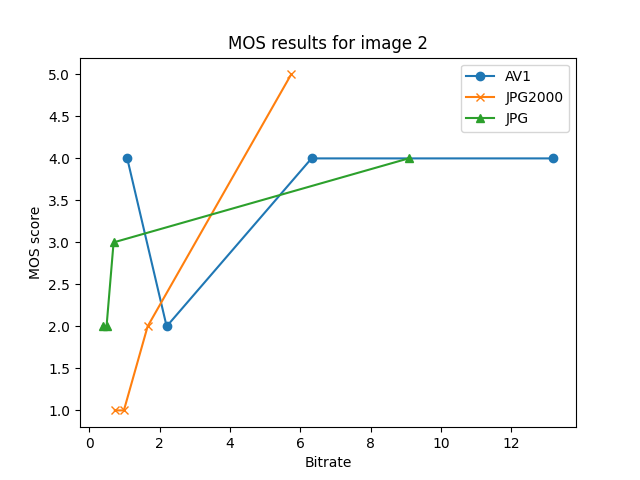
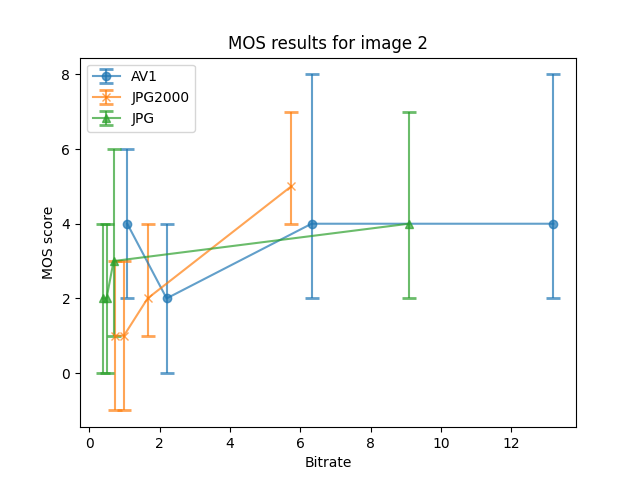
Updated the MOS results graphs to show the confidence interval

diff --git a/generateGraphs.py b/generateGraphs.py
@@ -54,41 +54,13 @@ def create_graph(file_path, results_list, codecs):
     plt.legend()
     plt.savefig(file_path)
     
-def create_graph_mos(file_path, results_list, codecs):
-    # Reset plot
-    plt.clf()
-    mos_c = MOS()
-    ci = mos_c.getConfidenceIntervals()
-    ci = ci[::-1]
-
-    X = get_bitrate_values(file_path.split('/')[-1].split('.')[0])
-    marker_list = ['o', 'x', '^']
-    for i,codec_results in enumerate(results_list):
-        codec_results = codec_results[:-1]
-        plt.plot(X[i], codec_results, label=codecs[i], marker=marker_list[i])
-    
-    plt.xlabel("Bitrate")
-    plt.ylabel(f"{file_path.split('/')[1]} score")
-    plt.title(f"{file_path.split('/')[1]} results for image {file_path.split('/')[2].split('.')[0][-1]}")
-
-    plt.legend()
-    plt.savefig(file_path)
-
-# def create_graph_mos(file_path, results_list, codecs):
+# def create_graph_mos(file_path, results_list, confidence_intervals, codecs):
 #     # Reset plot
 #     plt.clf()
-#     mos_c = MOS()
-#     ci = mos_c.getConfidenceIntervals()
-#     ci = ci[::-1]
-    
 #     X = get_bitrate_values(file_path.split('/')[-1].split('.')[0])
 #     marker_list = ['o', 'x', '^']
-#     for i, codec_results in enumerate(results_list):
-#         codec_results = codec_results[:-1]
-#         yerr_lower = [codec_results[j] - ci[j][0] for j in range(len(codec_results))]
-#         yerr_upper = [ci[j][1] - codec_results[j] for j in range(len(codec_results))]
-#         plt.errorbar(X[i], codec_results, yerr=[yerr_lower, yerr_upper], 
-#                      label=codecs[i], marker=marker_list[i])
+#     for i,codec_results in enumerate(results_list):
+#         plt.plot(X[i], codec_results, label=codecs[i], marker=marker_list[i])
     
 #     plt.xlabel("Bitrate")
 #     plt.ylabel(f"{file_path.split('/')[1]} score")
@@ -97,6 +69,23 @@ def create_graph_mos(file_path, results_list, codecs):
 #     plt.legend()
 #     plt.savefig(file_path)
 
+def create_graph_mos(file_path, results_list, confidence_intervals, codecs):
+    # Reset plot
+    plt.clf()
+    X = get_bitrate_values(file_path.split('/')[-1].split('.')[0])
+    marker_list = ['o', 'x', '^']
+    for i,codec_results in enumerate(results_list):
+        # Plot the results with error bars for the confidence intervals
+        yerr = np.array(confidence_intervals[i]).reshape(2, -1)
+        plt.errorbar(X[i], codec_results, yerr=yerr, label=codecs[i], 
+                     marker=marker_list[i], capsize=5, capthick=2, alpha=0.7)
+
+    plt.xlabel("Bitrate")
+    plt.ylabel(f"{file_path.split('/')[1]} score")
+    plt.title(f"{file_path.split('/')[1]} results for image {file_path.split('/')[2].split('.')[0][-1]}")
+
+    plt.legend()
+    plt.savefig(file_path)
 
 def create_objective_graphs():
     # Get the objective evaluation metrics results
@@ -121,22 +110,30 @@ def create_objective_graphs():
 def create_mos_graphs():
     # Get the mos evaluation metrics results
     codec_dir = os.listdir('mos_results')
-    df_list = [pd.read_csv(f'mos_results/{codec}', index_col=0) for codec in codec_dir]
+    df_list = [pd.read_csv(f'mos_results/{codec}', index_col=0)[:-1] for codec in codec_dir]
+    mos_c = MOS()
+    ci = mos_c.getConfidenceIntervals_dataframe()[::-1]
     codecs = [codec.split('Results')[0].upper() for codec in codec_dir]
+    
+    # print(df_list[0].values.shape)
+    # print(ci[0].values.shape)
+    # quit()
     
     # For each image
     for i in tqdm(range(len(df_list[0].columns)), desc='Images', leave=False):
         image_results = []
+        confidence_intervals = []
         '''
         Each image_results is an image;
         Each list inside image_result is a codec
         Each value inside the list that is inside the list is a bitrate value, in ascending order, the last being the reference value
         '''
-        # TODO: There's a problem here! Since the reference is in the list it counts as the fifth element (find a way to deal with this situation)
-        for codec_df in df_list:
-            image_results.append(list(codec_df[f'Image {i+1}'])) # This list contains the bitrates values for each codec
+        for j in range(len(df_list)):
+            image_results.append(list(df_list[j][f'Image {i+1}'])) # This list contains the bitrates values for each codec
+            confidence_intervals.append(list(ci[j][f'Image {i+1}'])) # This list contains the bitrates values for each codec
+            
         
-        create_graph_mos(f'graphs/MOS/Image{i + 1}.png', image_results, codecs)
+        create_graph_mos(f'graphs/MOS/Image{i + 1}.png', image_results, confidence_intervals, codecs)
     
 
 if __name__ == '__main__':    

diff --git a/mos.py b/mos.py
@@ -68,6 +68,19 @@ class MOS:
         jpg2000CI[i][j] = (means[1][i][j] - stddevs[1][i][j],means[1][i][j] + stddevs[1][i][j])
         av1CI[i][j]     = (means[2][i][j] - stddevs[2][i][j],means[2][i][j] + stddevs[2][i][j])
     return (jpgCI,jpg2000CI,av1CI)
+  
+  def getConfidenceIntervals_dataframe(self):
+    jpgCI     = pd.DataFrame(index = ["bitrate-1", "bitrate-2", "bitrate-3", "bitrate-4"],columns = ["Image 1","Image 2","Image 3","Image 4","Image 5"])
+    jpg2000CI = pd.DataFrame(index = ["bitrate-1", "bitrate-2", "bitrate-3", "bitrate-4"],columns = ["Image 1","Image 2","Image 3","Image 4","Image 5"])
+    av1CI     = pd.DataFrame(index = ["bitrate-1", "bitrate-2", "bitrate-3", "bitrate-4"],columns = ["Image 1","Image 2","Image 3","Image 4","Image 5"])
+    means   = self.getMeans()
+    stddevs = self.getStddevs()
+    for i in range(5): # Images
+      for j in range(4): # Bitrates
+        jpgCI.values.T[i][j]     = (means[0][i][j] - stddevs[0][i][j],means[0][i][j] + stddevs[0][i][j])
+        jpg2000CI.values.T[i][j] = (means[1][i][j] - stddevs[1][i][j],means[1][i][j] + stddevs[1][i][j])
+        av1CI.values.T[i][j]     = (means[2][i][j] - stddevs[2][i][j],means[2][i][j] + stddevs[2][i][j])
+    return [jpgCI,jpg2000CI,av1CI]
 
   def printResultsArray(self,threeDArray):
     for i in range(5):
